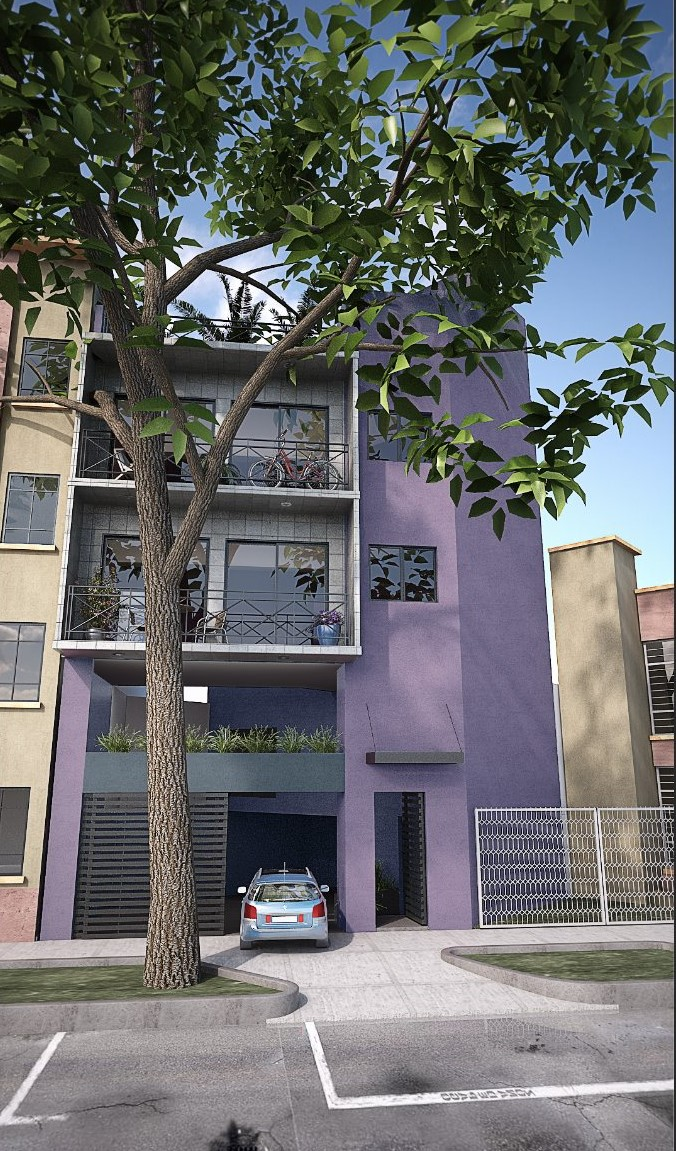
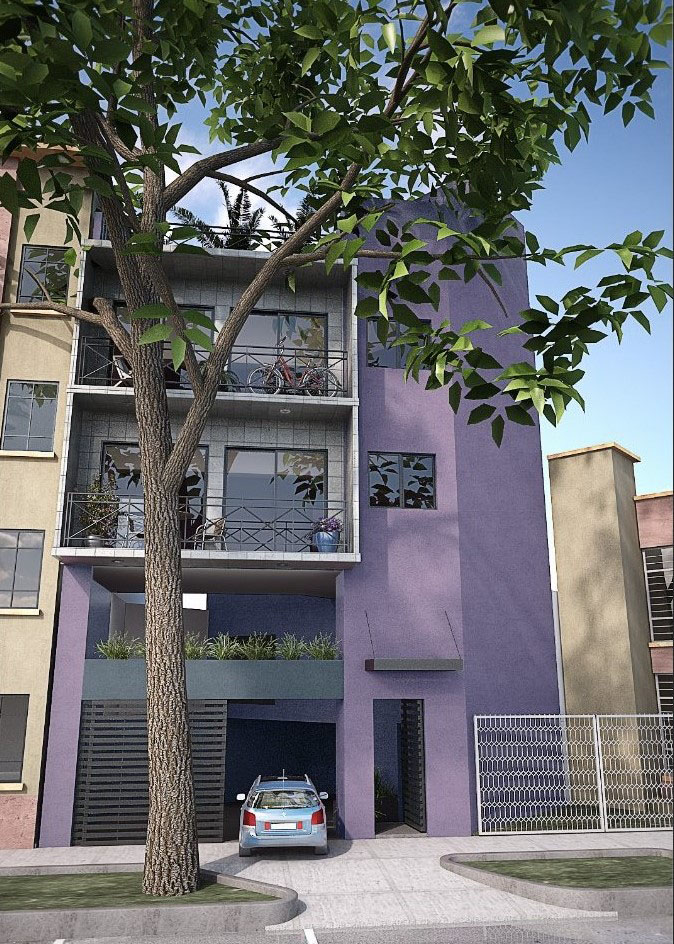
Añado Navarra
Texto actualizado y fotos actualizadas.

diff --git a/A3Web/Architecture/css/texto.css b/A3Web/Architecture/css/texto.css
@@ -1,3 +1,9 @@
+@font-face {
+  font-family: 'Calibri';
+  src: local('Calibri'),
+       url(font/Calibri.ttf) format('ttf');
+}
+
 ul{
   font-family:  Calibri, sans-serif;
 }

diff --git a/A3Web/Architecture/d_navarra.php b/A3Web/Architecture/d_navarra.php
@@ -18,25 +18,44 @@
 				</script>
 
 				<div id="slideshow" class="pics" style="height:400px; ">
-	  			<img src="desarrollos/img/Navarra/01.jpg" width="286" height="429" style="position: absolute; top: 0px; left: 0px; opacity: 1; display: block; z-index: 9; ">
-	    </div>
-			<div class="fotos">
-				<ul id="nav">
-	        <li class="activeSlide"><a href="#"><img src="desarrollos/img/Navarra/01.jpg" width="80" height="53" ></a></li>
-	    	</ul>
-	    </div>
-			<div	class="texto">
+					<img src="desarrollos/img/Navarra/01.jpg" width="286" height="429" style="position: absolute; top: 0px; left: 0px; opacity: 1; display: block; z-index: 9; ">
+					<img src="desarrollos/img/Navarra/02.jpg" width="286" height="429" style="top: 0px; left: 0px; z-index: 7; position: absolute; display: none; ">
+					<img src="desarrollos/img/Navarra/03.jpg" width="286" height="429" style="top: 0px; left: 0px; z-index: 6; position: absolute; display: none; ">
+					<img src="desarrollos/img/Navarra/04.jpg" width="629" height="429" style="top: 0px; left: 0px; z-index: 5; position: absolute; display: none; ">
+					<img src="desarrollos/img/Navarra/05.jpg" width="629" height="429" style="top: 0px; left: 0px; z-index: 4; position: absolute; display: none; ">
+					<img src="desarrollos/img/Navarra/06.jpg" width="629" height="429" style="top: 0px; left: 0px; z-index: 4; position: absolute; display: none; ">
+					<img src="desarrollos/img/Navarra/07.jpg" width="629" height="429" style="top: 0px; left: 0px; z-index: 4; position: absolute; display: none; ">
+					<img src="desarrollos/img/Navarra/08.jpg" width="286" height="429" style="top: 0px; left: 0px; z-index: 4; position: absolute; display: none; ">
+					<img src="desarrollos/img/Navarra/09.jpg" width="629" height="429" style="top: 0px; left: 0px; z-index: 4; position: absolute; display: none; ">
+					<img src="desarrollos/img/Navarra/10.jpg" width="286" height="429" style="top: 0px; left: 0px; z-index: 4; position: absolute; display: none; ">
+				</div>
+				<div class="fotos">
+					<ul id="nav">
+						<li class=""><a href="#"><img src="desarrollos/img/Navarra/01.jpg" width="80" height="53" ></a></li>
+						<li class=""><a href="#"><img src="desarrollos/img/Navarra/02.jpg" width="80" height="53"></a></li>
+						<li class=""><a href="#"><img src="desarrollos/img/Navarra/03.jpg" width="80" height="53"></a></li>
+						<li class=""><a href="#"><img src="desarrollos/img/Navarra/04.jpg" width="80" height="53"></a></li>
+						<li class=""><a href="#"><img src="desarrollos/img/Navarra/05.jpg" width="80" height="53"></a></li>
+						<li class=""><a href="#"><img src="desarrollos/img/Navarra/06.jpg" width="80" height="53"></a></li>
+						<li class=""><a href="#"><img src="desarrollos/img/Navarra/07.jpg" width="80" height="53"></a></li>
+						<li class=""><a href="#"><img src="desarrollos/img/Navarra/08.jpg" width="80" height="53"></a></li>
+						<li class=""><a href="#"><img src="desarrollos/img/Navarra/09.jpg" width="80" height="53"></a></li>
+						<li class="activeSlide"><a href="#"><img src="desarrollos/img/Navarra/10.jpg" width="80" height="53" ></a></li>
+					</ul>
+				</div>
+
+			<div class="texto">
 				<p class="titulo">Navarra 167</p>
 				<p class="lugar">
 					Álamos, CdMx (2018)<br/>
-					Desarrollo Inmobiliario, 3 departamentos
+					Desarrollo Inmobiliario, 3 departamentos.
 				</p>
-				<p class="info">
+				<p	class="info">
 					Moderno y llamativo edificio, con excelente ubicación a un paso de las colonias Narvarte y Del Valle. Departamentos de 80 m2, más bodega, amplio cuarto de lavado y terraza o roof-garden privado. Sala-comedor con balcones, cocina con desayunador, 2 recámaras, 2 baños y 1 estacionamiento por departamento.
 				</p>
 				<p	class="arq">
-					Diseño: Arq. Carolina Iglesias<br/>
-					Construcción:EDyCA Inmobiliaria 1.0<br/>
+					Diseño: Arq. Carolina Iglesias <br/>
+					Construcción: EDyCA Inmobiliaria 1.0
 					Colaboración: Arq. Eduardo López
 				</p>
 			</div>
